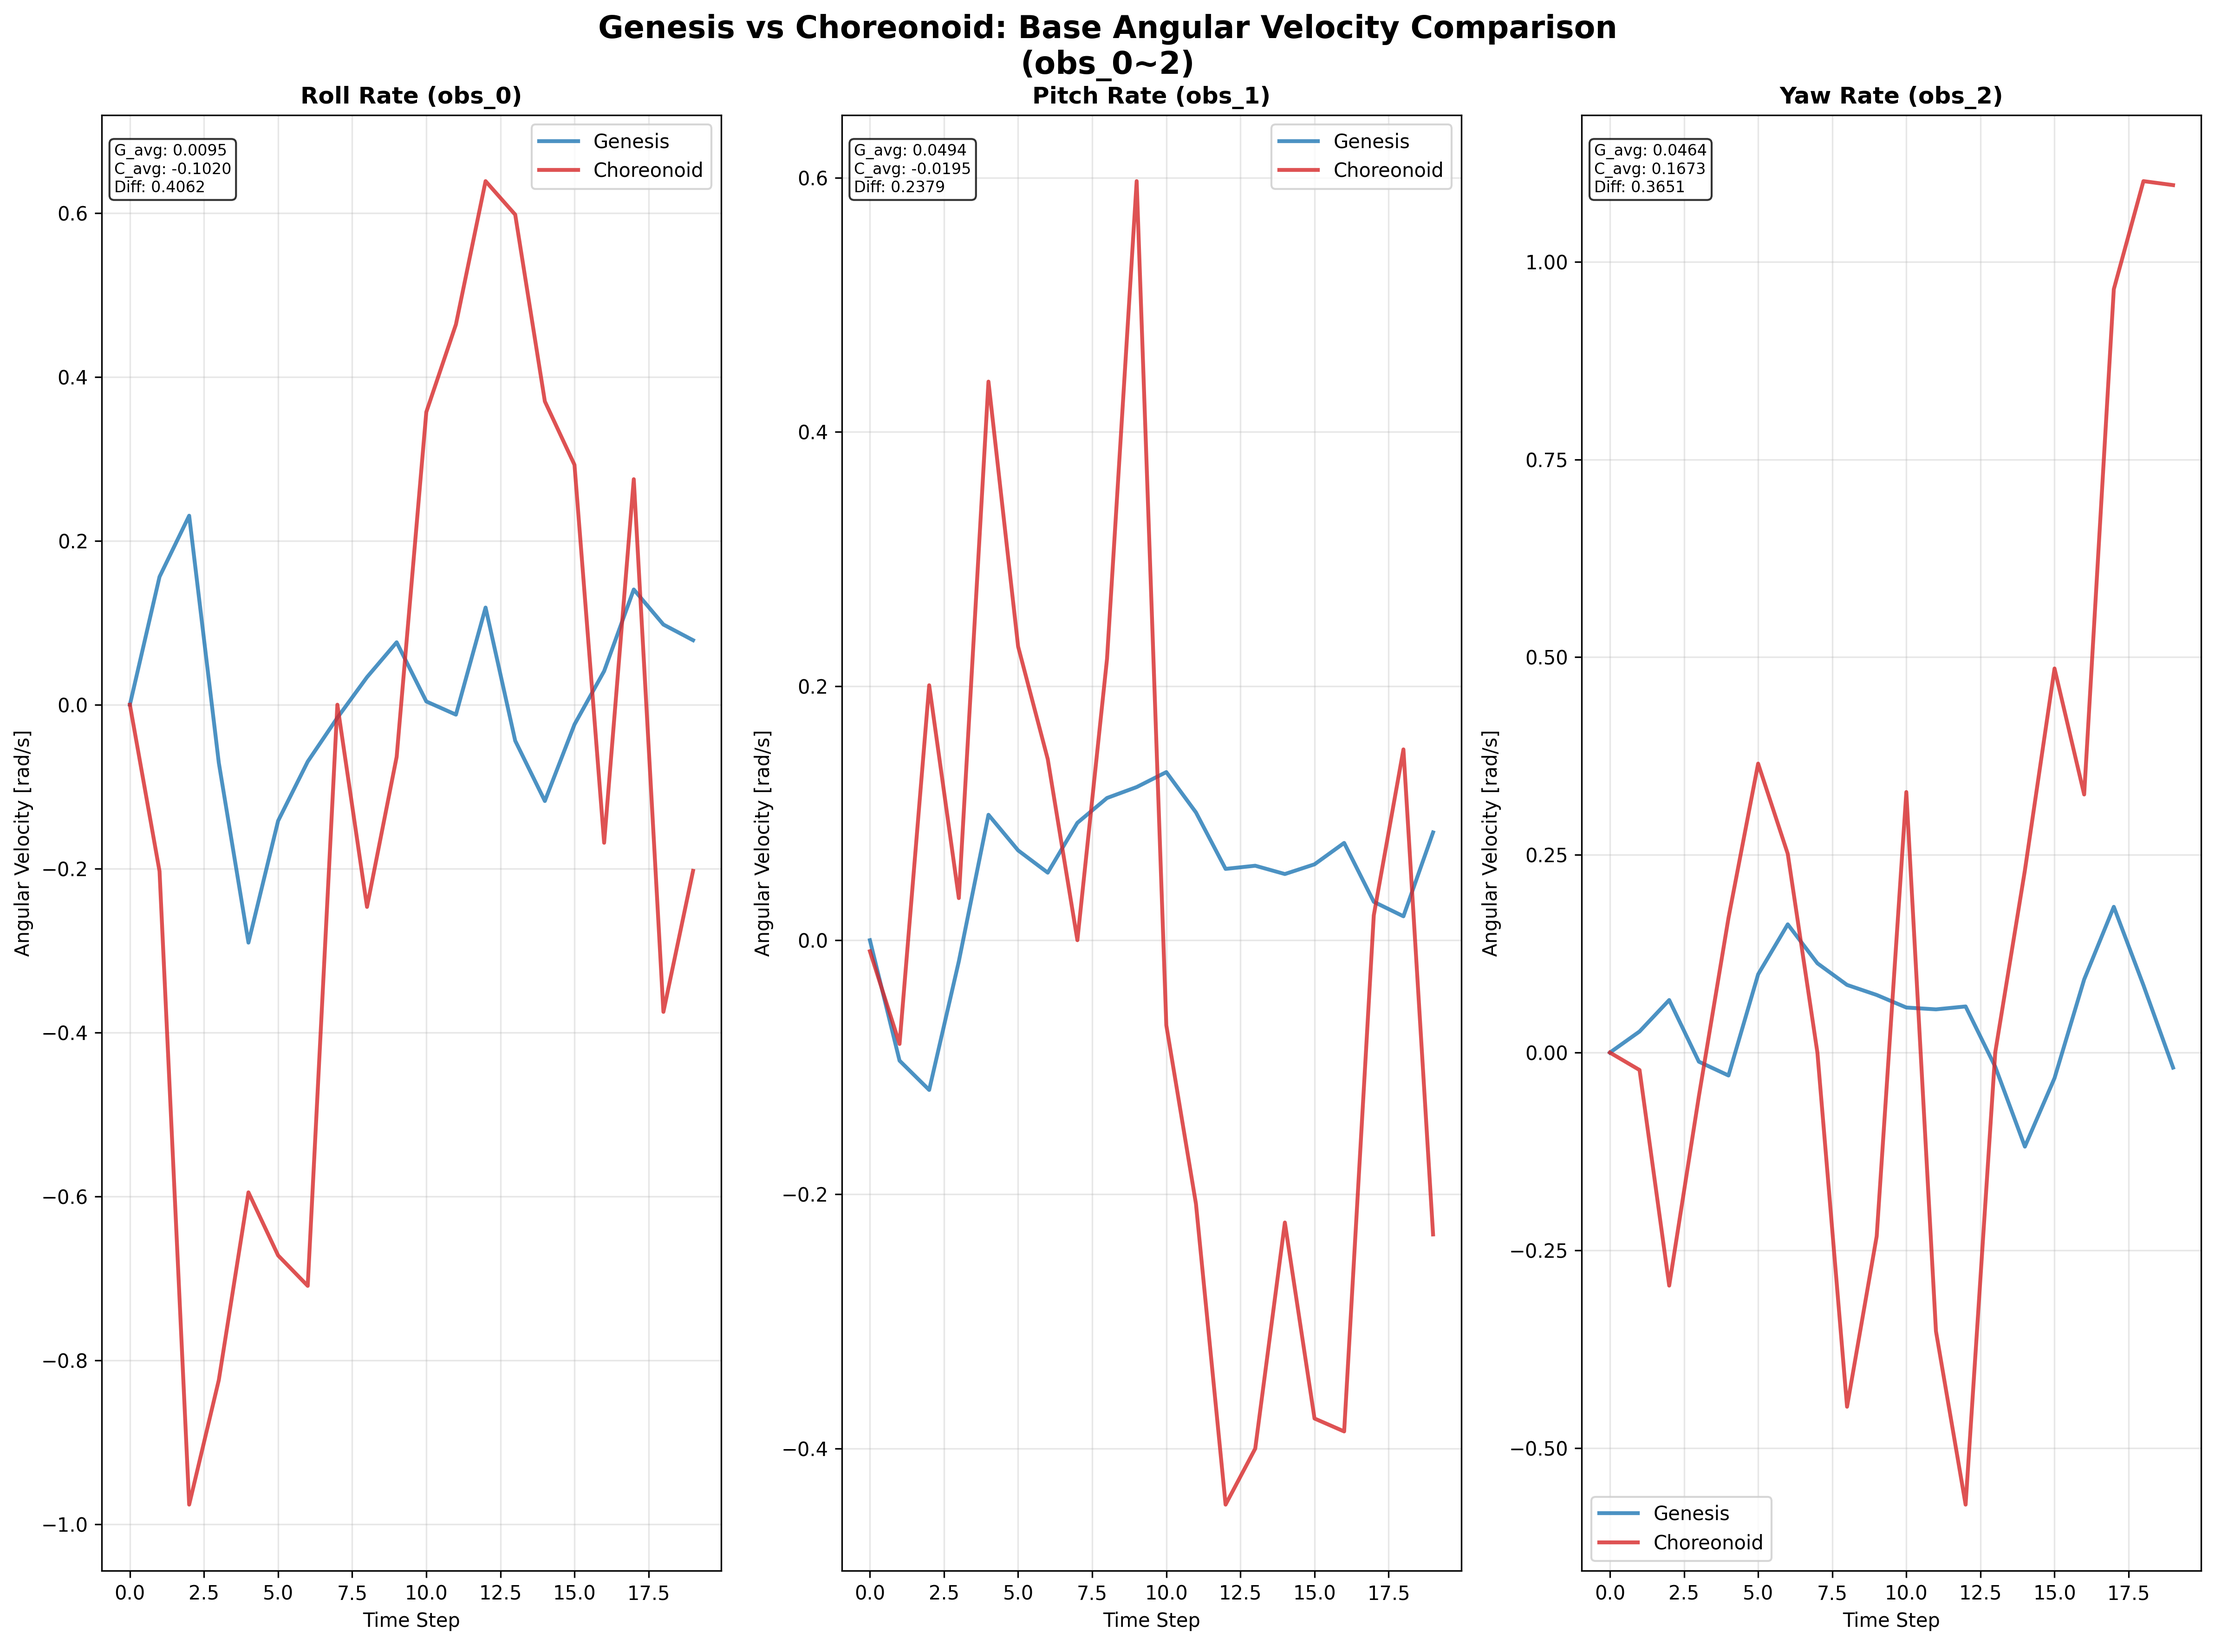
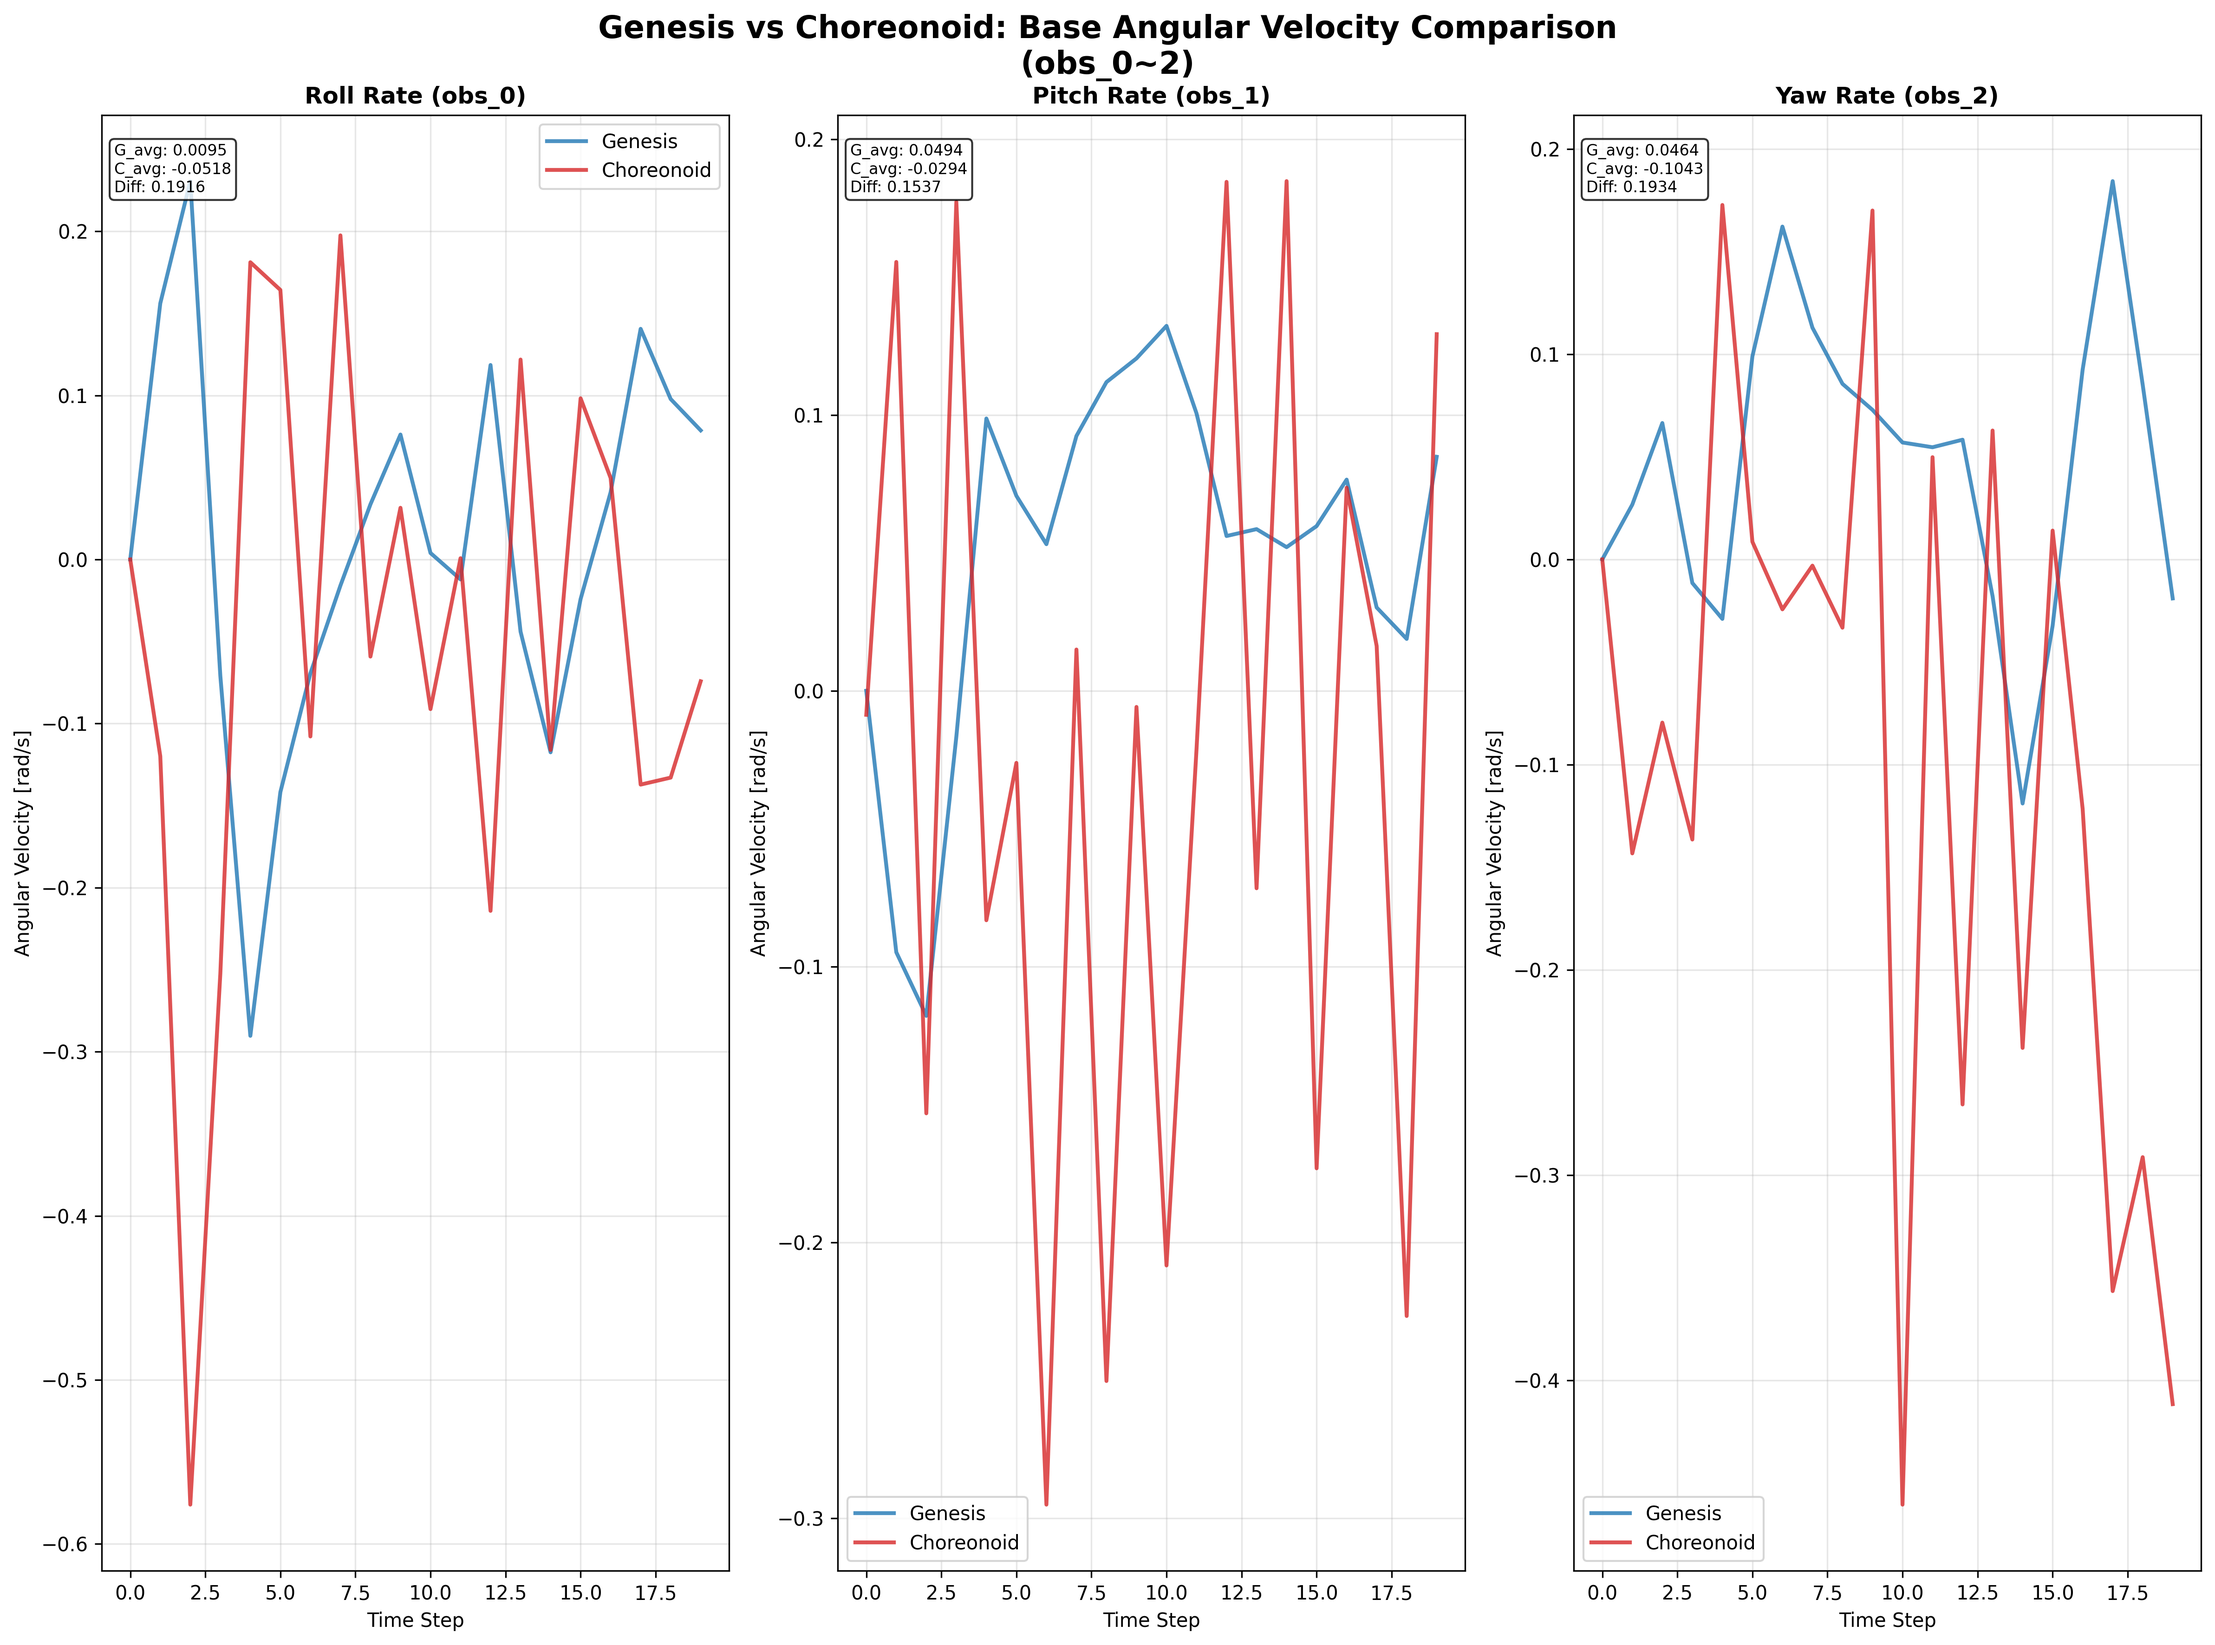
action_scale_0.25

diff --git a/samples/ishiki_Errorverifi.py b/samples/ishiki_Errorverifi.py
@@ -32,14 +32,15 @@ PLOT_CONFIG = {
 }
 
 # 結果保存用ディレクトリ作成
-os.makedirs('obs_comparison_plots', exist_ok=True)
+os.makedirs('obs_comparison_plots_scale0.25', exist_ok=True)
 
 def load_data():
     """データ読み込み"""
     print("Loading data...")
     genesis_df = pd.read_csv('obs_data/genesis_ishiki-walking-no-vel_ckpt2000_simple.csv')
-    cnoid_df = pd.read_csv('obs_data/cnoid_ishiki-walking-no-vel_ckpt2000_simple.csv')
-    
+    # cnoid_df = pd.read_csv('obs_data/cnoid_ishiki-walking-no-vel_ckpt2000_simple.csv')
+    cnoid_df = pd.read_csv('obs_data/cnoid_ishiki-walking-no-vel_ckpt2000_scale0.25.csv')
+
     print(f"Genesis data shape: {genesis_df.shape}")
     print(f"Choreonoid data shape: {cnoid_df.shape}")
     

diff --git a/irsl_rl/rl_env_cnoid.py b/irsl_rl/rl_env_cnoid.py
@@ -15,7 +15,7 @@ class RLEnvChoreonoid(RLEnvBase):
         super().__init__(num_envs, env_cfg, obs_cfg, reward_cfg, command_cfg, show_viewer, device, dt, substeps, robot_urdf_path)
 
     def build_environment(self):
-        ib.loadRobotItem(cutil.getShareDirectory() + '/model/misc/floor.body')
+        ib.loadRobotItem(cutil.getShareDirectory() + '/model/misc/floor2.body')
 
     def scene_build(self, substeps, robot_urdf_path, show_viewer):
         #self.srobot = setupSim()
